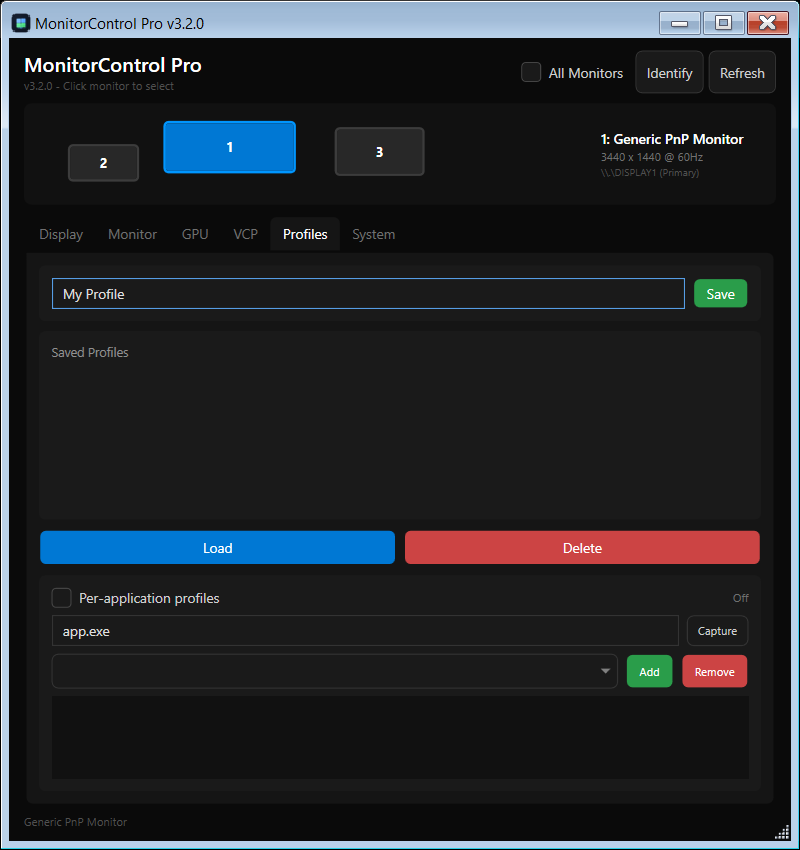
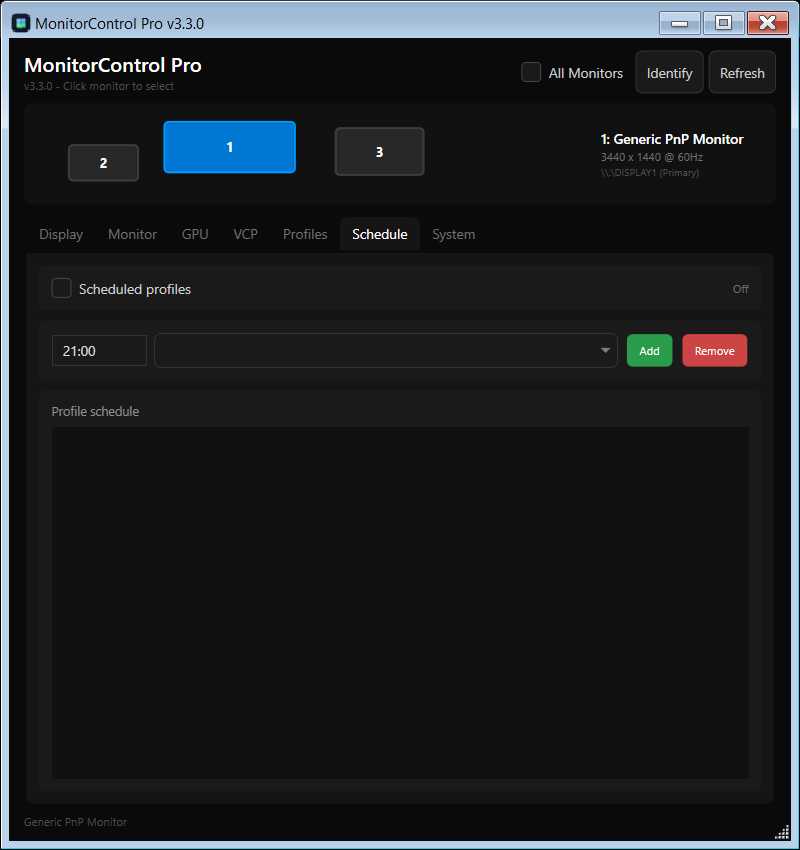
feat: add scheduled profiles

diff --git a/README.md b/README.md
@@ -1,7 +1,7 @@
 # MonitorControl Pro
 
 <p align="center">
-  <img src="https://img.shields.io/badge/Version-v3.2.0-brightgreen" alt="Version v3.2.0">
+  <img src="https://img.shields.io/badge/Version-v3.3.0-brightgreen" alt="Version v3.3.0">
   <img src="https://img.shields.io/badge/PowerShell-5.1+-blue?logo=powershell" alt="PowerShell 5.1+">
   <img src="https://img.shields.io/badge/Windows-10%2F11-0078D6?logo=windows" alt="Windows 10/11">
   <img src="https://img.shields.io/badge/DDC%2FCI-Supported-green" alt="DDC/CI">
@@ -28,6 +28,7 @@ A comprehensive Windows GUI utility for controlling monitor settings via DDC/CI 
 ### Automation
 - **System Tray Mode** - Persistent notification-area icon with a brightness popup, linked-monitor toggle, and profile cycling
 - **Per-Application Profiles** - Watch the foreground app and automatically apply a saved profile when its executable matches a rule
+- **Scheduled Profiles** - Apply saved profiles automatically from explicit `HH:mm` daily schedule rules
 - **Auto Mode** - Automatic brightness and color temperature based on time of day:
   - Day (7 AM - 6 PM): 80% brightness, neutral colors
   - Evening (6 PM - 9 PM): 60% brightness, slightly warm
@@ -107,6 +108,12 @@ $Shortcut.Save()
 - Open the **Profiles** tab, enable **Per-application profiles**, and map an executable name such as `photoshop.exe` to a profile
 - Use **Capture** to grab the foreground executable after a short delay, or type the executable name directly
 - Rules are saved in `%APPDATA%\MonitorControlPro\app-profile-rules.json`
+
+### Scheduled Profiles
+- Create or load a saved monitor profile
+- Open the **Schedule** tab, enable **Scheduled profiles**, and add `HH:mm` rules that map times to profiles
+- The watcher applies the latest due rule once per schedule boundary, including the current effective rule when scheduling is enabled
+- Rules are saved in `%APPDATA%\MonitorControlPro\profile-schedules.json`
 
 ### Navigation
 - Click on monitor rectangles to select different displays
@@ -270,7 +277,6 @@ Contributions are welcome! Please feel free to submit a Pull Request.
 - [ ] AMD GPU monitoring support
 - [ ] NVAPI integration for digital vibrance
 - [ ] WMI fallback for laptop displays
-- [ ] Scheduled profile switching
 
 ## License
 
